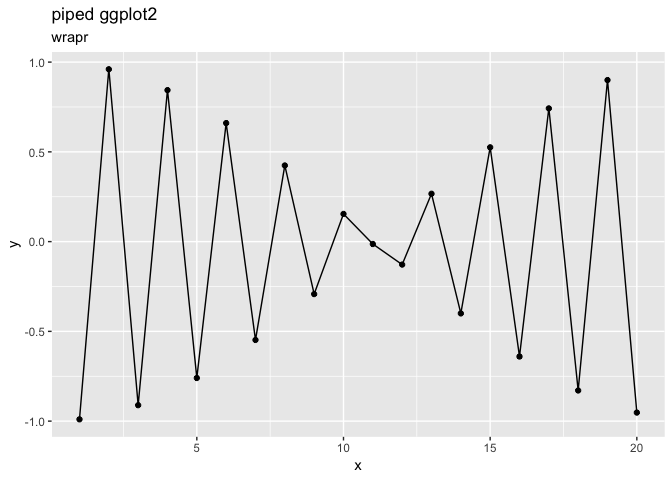
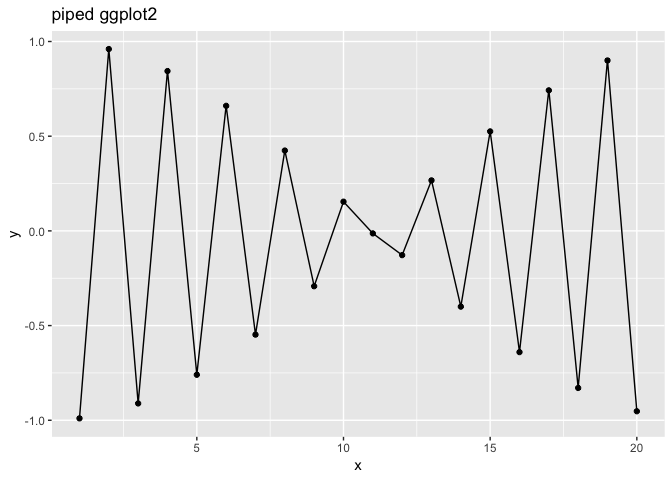
use subtitle in a more interesting way

diff --git a/extras/ggplot2_piped.md b/extras/ggplot2_piped.md
@@ -49,8 +49,7 @@ data.frame(x = 1:20) %.>%
   ggplot(., aes(x = x,  y = y)) %.>%
   geom_point() %.>%
   geom_line() %.>%
-  ggtitle("piped ggplot2",
-          subtitle = "wrapr")
+  ggtitle("piped ggplot2")
 ```
 
 ![](ggplot2_piped_files/figure-markdown_github/unnamed-chunk-3-1.png)
@@ -65,7 +64,7 @@ A minor (undiscussed) technical difficulty is: `ggplot2` users can store pieces 
 line <- geom_line(linetype = 2)
 
 title <- ggtitle("piped ggplot2",
-                 subtitle = "wrapr")
+                 subtitle = "pre-stored title")
 ```
 
 We can not, without a bit more adaption, pipe into these structures.
